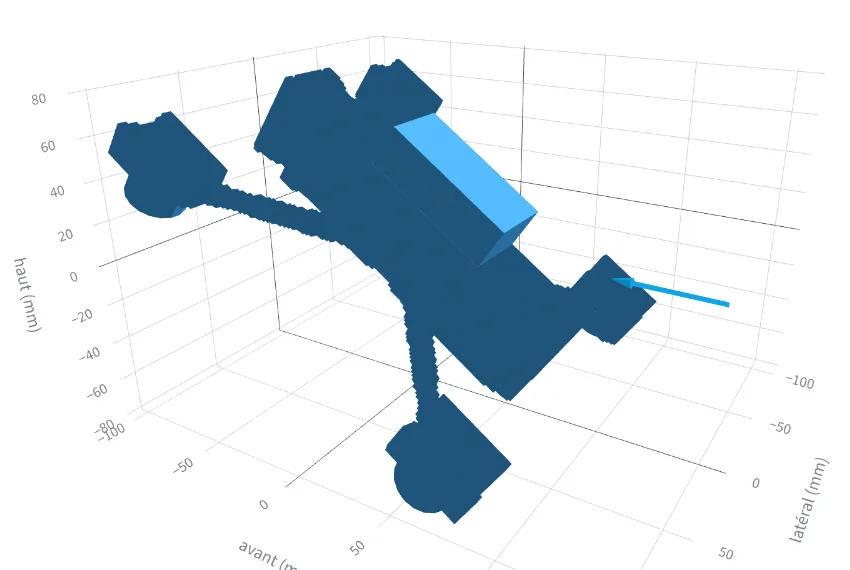
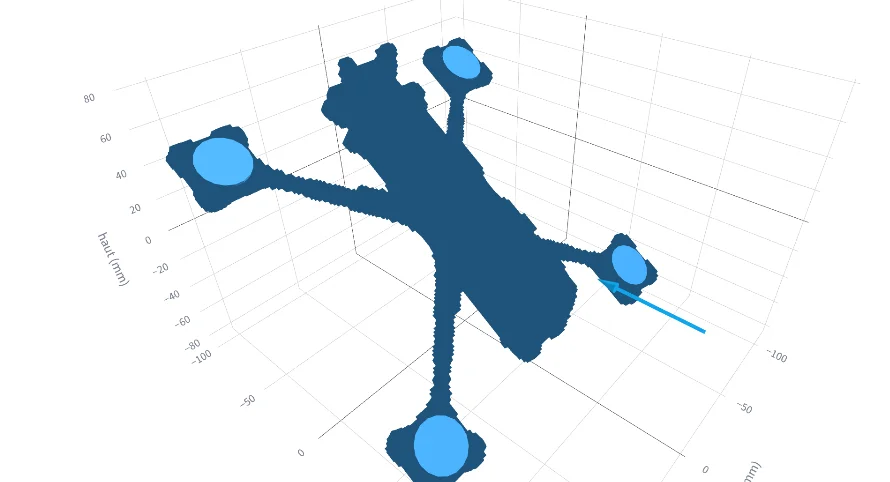
Page d'accueil : nouvelle image du volume 3D reconstruit depuis les DXF

diff --git a/index.html b/index.html
@@ -235,7 +235,7 @@
     <div class="etapes-dxf">
       <figure class="visuel"><img src="assets/dxf/1_plans.webp" width="623" height="575" loading="lazy" alt="Tableau des plans DXF chargés : vue de dessus, vue de face, volume 3D"><figcaption>1 · Tes plans DXF</figcaption></figure>
       <figure class="visuel sombre"><img src="assets/dxf/2_esquisse.webp" width="349" height="398" loading="lazy" alt="Esquisse cotée remplacée par les plans DXF de dessus et de face d'un TOWA 5 pouces"><figcaption>2 · Ils remplacent l'esquisse, mêmes cotes</figcaption></figure>
-      <figure class="visuel"><img src="assets/dxf/3_volume.webp" width="850" height="570" loading="lazy" alt="Volume 3D d'un drone FPV reconstruit à partir de ses plans DXF"><figcaption>3 · Le volume 3D reconstruit</figcaption></figure>
+      <figure class="visuel"><img src="assets/dxf/3_volume.webp" width="890" height="482" loading="lazy" alt="Volume 3D d'un drone FPV reconstruit à partir de ses plans DXF"><figcaption>3 · Le volume 3D reconstruit</figcaption></figure>
     </div>
 
     <div class="fonction">

diff --git a/en/index.html b/en/index.html
@@ -235,7 +235,7 @@
     <div class="etapes-dxf">
       <figure class="visuel"><img src="../assets/dxf/1_plans.webp" width="623" height="575" loading="lazy" alt="Table of loaded DXF drawings: top view, front view, 3D volume"><figcaption>1 · Your DXF drawings</figcaption></figure>
       <figure class="visuel sombre"><img src="../assets/dxf/2_esquisse.webp" width="349" height="398" loading="lazy" alt="Dimensioned sketch replaced by the top and front DXF drawings of a TOWA 5-inch"><figcaption>2 · They replace the sketch, same dimensions</figcaption></figure>
-      <figure class="visuel"><img src="../assets/dxf/3_volume.webp" width="850" height="570" loading="lazy" alt="3D volume of an FPV drone rebuilt from its DXF drawings"><figcaption>3 · The rebuilt 3D volume</figcaption></figure>
+      <figure class="visuel"><img src="../assets/dxf/3_volume.webp" width="890" height="482" loading="lazy" alt="3D volume of an FPV drone rebuilt from its DXF drawings"><figcaption>3 · The rebuilt 3D volume</figcaption></figure>
     </div>
 
     <div class="fonction">
